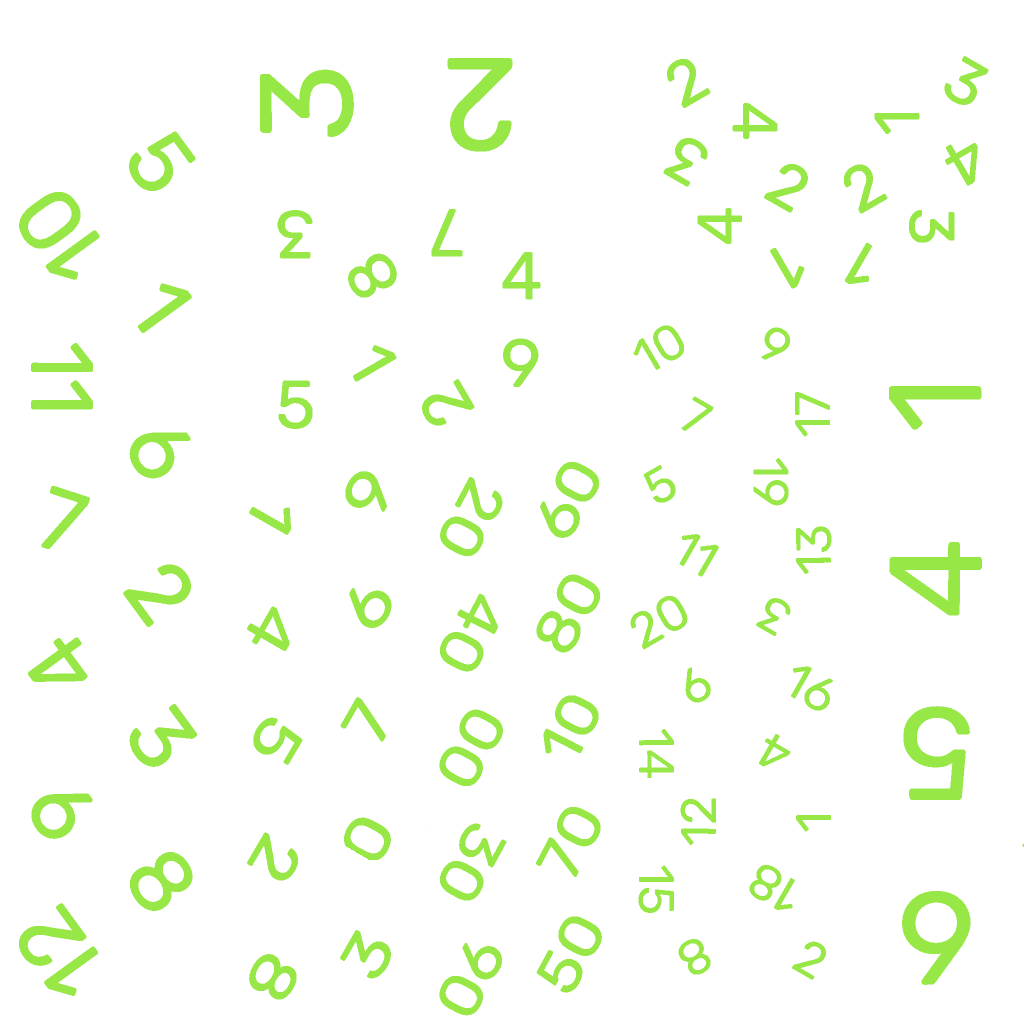
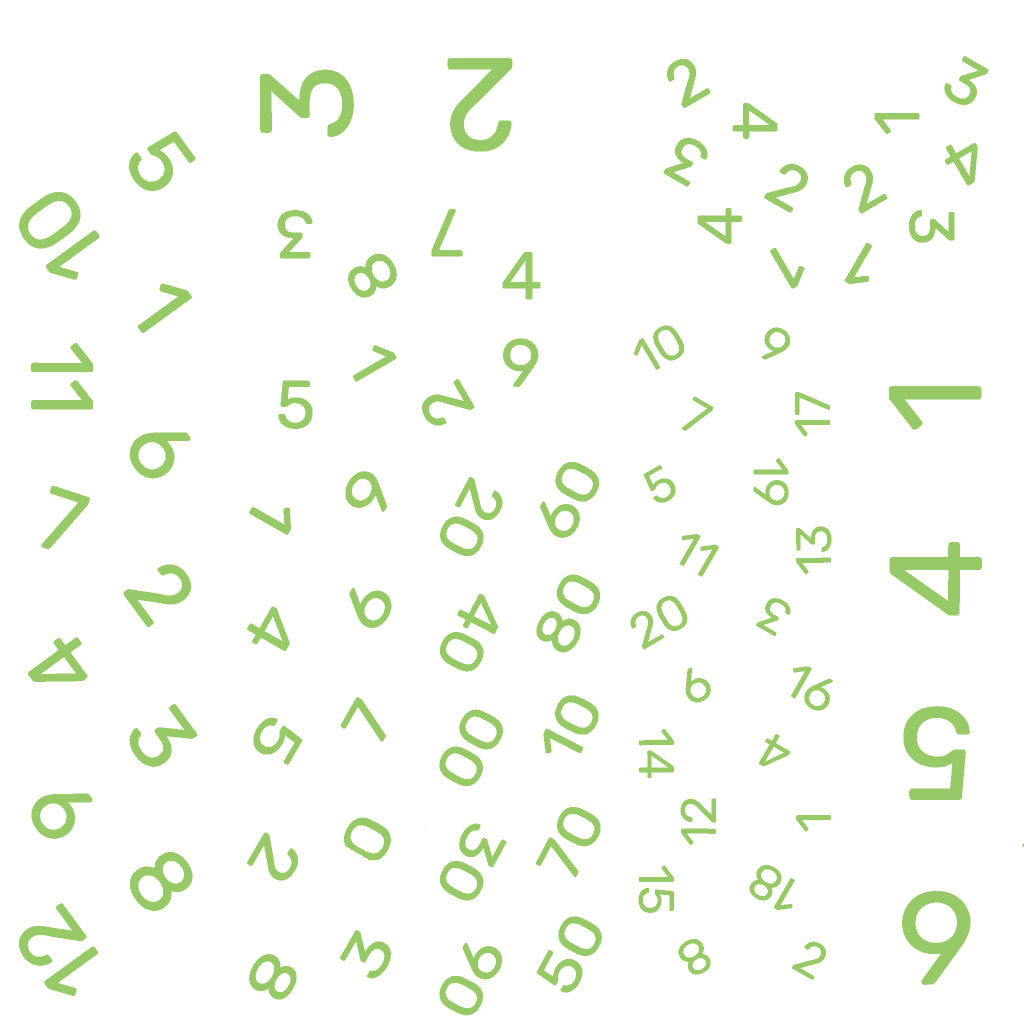
style(initiative): desaturate initiative dice colors by 30% and set popup background to #303030

diff --git a/client/src/views/SpaceVttView.vue b/client/src/views/SpaceVttView.vue
@@ -1654,8 +1654,8 @@ async function rollInitiative() {
 
   try {
     const results = await executeQueuedDiceRoll(diceBox, [
-      { sides: 10, theme: 'custom-init-player', themeColor: '#97e847', qty: 1 },
-      { sides: 10, theme: 'custom-init-opp', themeColor: '#09201b', qty: 1 }
+      { sides: 10, theme: 'custom-init-player', themeColor: '#97c966', qty: 1 },
+      { sides: 10, theme: 'custom-init-opp', themeColor: '#0f1a18', qty: 1 }
     ]);
     const initSummary = calculateInitiativeRoll(results);
     if (initSummary.valid) {
@@ -3678,7 +3678,7 @@ onBeforeUnmount(() => {
   top: 70px;
   left: 50%;
   transform: translateX(-50%);
-  background: rgba(11, 34, 46, 0.95);
+  background: #303030;
   border: 2px solid #b5eeff;
   box-shadow: 0 0 20px rgba(181, 238, 255, 0.45), 0 8px 32px rgba(0, 0, 0, 0.8);
   border-radius: 8px;
@@ -3731,22 +3731,22 @@ onBeforeUnmount(() => {
   box-shadow: inset 0 2px 4px rgba(255, 255, 255, 0.1), 0 4px 12px rgba(0, 0, 0, 0.4);
 }
 .init-player-die {
-  background: #97e847;
-  border: 2px solid #09201b;
-  color: #09201b;
-  box-shadow: 0 0 12px rgba(151, 232, 71, 0.4), inset 0 2px 4px rgba(255, 255, 255, 0.3);
+  background: #97c966;
+  border: 2px solid #0f1a18;
+  color: #0f1a18;
+  box-shadow: 0 0 12px rgba(151, 201, 102, 0.4), inset 0 2px 4px rgba(255, 255, 255, 0.3);
 }
 .init-player-die .init-val {
   text-shadow: 0 0 10px rgba(181, 238, 255, 0.7);
 }
 .init-opp-die {
-  background: #09201b;
-  border: 2px solid #97e847;
-  color: #97e847;
-  box-shadow: 0 0 12px rgba(151, 232, 71, 0.3), inset 0 2px 4px rgba(255, 255, 255, 0.1);
+  background: #0f1a18;
+  border: 2px solid #97c966;
+  color: #97c966;
+  box-shadow: 0 0 12px rgba(151, 201, 102, 0.3), inset 0 2px 4px rgba(255, 255, 255, 0.1);
 }
 .init-opp-die .init-val {
-  text-shadow: 0 0 10px rgba(151, 232, 71, 0.7);
+  text-shadow: 0 0 10px rgba(151, 201, 102, 0.7);
 }
 .init-label {
   font-size: 9px;
@@ -3775,22 +3775,22 @@ onBeforeUnmount(() => {
   font-size: 11px;
 }
 .init-pill-player {
-  background: #97e847;
-  color: #09201b;
-  border: 1px solid #09201b;
+  background: #97c966;
+  color: #0f1a18;
+  border: 1px solid #0f1a18;
   padding: 1px 6px;
   border-radius: 3px;
   font-weight: 700;
-  box-shadow: 0 0 6px rgba(151, 232, 71, 0.35);
+  box-shadow: 0 0 6px rgba(151, 201, 102, 0.35);
 }
 .init-pill-opp {
-  background: #09201b;
-  color: #97e847;
-  border: 1px solid #97e847;
+  background: #0f1a18;
+  color: #97c966;
+  border: 1px solid #97c966;
   padding: 1px 6px;
   border-radius: 3px;
   font-weight: 700;
-  box-shadow: 0 0 6px rgba(151, 232, 71, 0.25);
+  box-shadow: 0 0 6px rgba(151, 201, 102, 0.25);
 }
 
 /* Multi-Turn Flip & Burn */
@@ -5368,10 +5368,10 @@ onBeforeUnmount(() => {
 }
 
 .roll-log-item.initiative .roll-item-badge {
-  background: #09201b;
-  color: #97e847;
-  border-color: rgba(151, 232, 71, 0.5);
-  box-shadow: 0 0 6px rgba(151, 232, 71, 0.35);
+  background: #0f1a18;
+  color: #97c966;
+  border-color: rgba(151, 201, 102, 0.5);
+  box-shadow: 0 0 6px rgba(151, 201, 102, 0.35);
 }
 
 .roll-item-result {

diff --git a/client/src/views/RpgVttView.vue b/client/src/views/RpgVttView.vue
@@ -1033,8 +1033,8 @@ async function rollInitiative() {
 
   try {
     const results = await executeQueuedDiceRoll(diceBox, [
-      { sides: 10, theme: 'custom-init-player', themeColor: '#97e847', qty: 1 },
-      { sides: 10, theme: 'custom-init-opp', themeColor: '#09201b', qty: 1 }
+      { sides: 10, theme: 'custom-init-player', themeColor: '#97c966', qty: 1 },
+      { sides: 10, theme: 'custom-init-opp', themeColor: '#0f1a18', qty: 1 }
     ]);
     const initSummary = calculateInitiativeRoll(results);
     if (initSummary.valid) {
@@ -2551,7 +2551,7 @@ onBeforeUnmount(() => {
   top: 70px;
   left: 50%;
   transform: translateX(-50%);
-  background: rgba(11, 34, 46, 0.95);
+  background: #303030;
   border: 2px solid #b5eeff;
   box-shadow: 0 0 20px rgba(181, 238, 255, 0.45), 0 8px 32px rgba(0, 0, 0, 0.8);
   border-radius: 8px;
@@ -2604,22 +2604,22 @@ onBeforeUnmount(() => {
   box-shadow: inset 0 2px 4px rgba(255, 255, 255, 0.1), 0 4px 12px rgba(0, 0, 0, 0.4);
 }
 .init-player-die {
-  background: #97e847;
-  border: 2px solid #09201b;
-  color: #09201b;
-  box-shadow: 0 0 12px rgba(151, 232, 71, 0.4), inset 0 2px 4px rgba(255, 255, 255, 0.3);
+  background: #97c966;
+  border: 2px solid #0f1a18;
+  color: #0f1a18;
+  box-shadow: 0 0 12px rgba(151, 201, 102, 0.4), inset 0 2px 4px rgba(255, 255, 255, 0.3);
 }
 .init-player-die .init-val {
   text-shadow: 0 0 10px rgba(181, 238, 255, 0.7);
 }
 .init-opp-die {
-  background: #09201b;
-  border: 2px solid #97e847;
-  color: #97e847;
-  box-shadow: 0 0 12px rgba(151, 232, 71, 0.3), inset 0 2px 4px rgba(255, 255, 255, 0.1);
+  background: #0f1a18;
+  border: 2px solid #97c966;
+  color: #97c966;
+  box-shadow: 0 0 12px rgba(151, 201, 102, 0.3), inset 0 2px 4px rgba(255, 255, 255, 0.1);
 }
 .init-opp-die .init-val {
-  text-shadow: 0 0 10px rgba(151, 232, 71, 0.7);
+  text-shadow: 0 0 10px rgba(151, 201, 102, 0.7);
 }
 .init-label {
   font-size: 9px;
@@ -2648,22 +2648,22 @@ onBeforeUnmount(() => {
   font-size: 11px;
 }
 .init-pill-player {
-  background: #97e847;
-  color: #09201b;
-  border: 1px solid #09201b;
+  background: #97c966;
+  color: #0f1a18;
+  border: 1px solid #0f1a18;
   padding: 1px 6px;
   border-radius: 3px;
   font-weight: 700;
-  box-shadow: 0 0 6px rgba(151, 232, 71, 0.35);
+  box-shadow: 0 0 6px rgba(151, 201, 102, 0.35);
 }
 .init-pill-opp {
-  background: #09201b;
-  color: #97e847;
-  border: 1px solid #97e847;
+  background: #0f1a18;
+  color: #97c966;
+  border: 1px solid #97c966;
   padding: 1px 6px;
   border-radius: 3px;
   font-weight: 700;
-  box-shadow: 0 0 6px rgba(151, 232, 71, 0.25);
+  box-shadow: 0 0 6px rgba(151, 201, 102, 0.25);
 }
 
 .modal-error-banner {
@@ -4099,10 +4099,10 @@ onBeforeUnmount(() => {
 }
 
 .roll-log-item.initiative .roll-item-badge {
-  background: #09201b;
-  color: #97e847;
-  border-color: rgba(151, 232, 71, 0.5);
-  box-shadow: 0 0 6px rgba(151, 232, 71, 0.35);
+  background: #0f1a18;
+  color: #97c966;
+  border-color: rgba(151, 201, 102, 0.5);
+  box-shadow: 0 0 6px rgba(151, 201, 102, 0.35);
 }
 
 .roll-item-result {

diff --git a/client/src/utils/diceUtils.js b/client/src/utils/diceUtils.js
@@ -77,8 +77,8 @@ export function calculatePercentileRoll(results) {
 
 /**
  * Processes settled die objects from @3d-dice/dice-box for combat initiative.
- * Die #1 (Players): theme 'custom-init-player', themeColor '#97e847' (legacy: '#97f23d', '#70e6b3', '#12415a', '#0b222e').
- * Die #2 (Opposition): theme 'custom-init-opp', themeColor '#09201b' (legacy: '#07221c', '#124a3d', '#1d705d', '#6f0e39', '#400a22').
+ * Die #1 (Players): theme 'custom-init-player', themeColor '#97c966' (legacy: '#97e847', '#97f23d', '#70e6b3', '#12415a', '#0b222e').
+ * Die #2 (Opposition): theme 'custom-init-opp', themeColor '#0f1a18' (legacy: '#09201b', '#07221c', '#124a3d', '#1d705d', '#6f0e39', '#400a22').
  * On a d10 face showing 0 (raw value 0 or 10), the roll value is 10 (range 1-10).
  *
  * @param {Array} results
@@ -94,9 +94,10 @@ export function calculateInitiativeRoll(results) {
     return { playerRoll: 0, oppRoll: 0, winner: 'tie', valid: false };
   }
 
-  // Find player die: theme 'custom-init-player', themeColor '#97e847' / '#97f23d' / '#70e6b3' / '#12415a' / '#0b222e' / '#17304a', or groupId 0
+  // Find player die: theme 'custom-init-player', themeColor '#97c966' / '#97e847' / '#97f23d' / '#70e6b3' / '#12415a' / '#0b222e' / '#17304a', or groupId 0
   const playerDie = flat.find(d =>
     d?.theme === 'custom-init-player' ||
+    d?.themeColor?.toLowerCase() === '#97c966' ||
     d?.themeColor?.toLowerCase() === '#97e847' ||
     d?.themeColor?.toLowerCase() === '#97f23d' ||
     d?.themeColor?.toLowerCase() === '#70e6b3' ||
@@ -106,10 +107,11 @@ export function calculateInitiativeRoll(results) {
     d?.groupId === 0
   ) || flat[0];
 
-  // Find opposition die: theme 'custom-init-opp', themeColor '#09201b' / '#07221c' / '#124a3d' / '#1d705d' / '#6f0e39' / '#400a22', or groupId 1
+  // Find opposition die: theme 'custom-init-opp', themeColor '#0f1a18' / '#09201b' / '#07221c' / '#124a3d' / '#1d705d' / '#6f0e39' / '#400a22', or groupId 1
   const oppDie = flat.find(d =>
     d !== playerDie && (
       d?.theme === 'custom-init-opp' ||
+      d?.themeColor?.toLowerCase() === '#0f1a18' ||
       d?.themeColor?.toLowerCase() === '#09201b' ||
       d?.themeColor?.toLowerCase() === '#07221c' ||
       d?.themeColor?.toLowerCase() === '#124a3d' ||

diff --git a/client/test/InitiativeHud.test.js b/client/test/InitiativeHud.test.js
@@ -40,10 +40,11 @@ describe('Initiative Dice & HUD System', () => {
     });
 
     it('defines CSS colors matching user specifications', () => {
-      // Player: body #97e847, border/text #09201b
-      expect(spaceContent).toMatch(/#97e847/);
-      expect(spaceContent).toMatch(/#09201b/);
-      // Opposition: body #09201b, numbers #97e847
+      // Player: body #97c966, border/text #0f1a18
+      expect(spaceContent).toMatch(/#97c966/);
+      expect(spaceContent).toMatch(/#0f1a18/);
+      expect(spaceContent).toMatch(/background:\s*#303030/);
+      // Opposition: body #0f1a18, numbers #97c966
     });
 
     it('defines glow effect box-shadow and text-shadow on initiative HUD banner', () => {
@@ -83,10 +84,11 @@ describe('Initiative Dice & HUD System', () => {
     });
 
     it('defines CSS colors matching user specifications', () => {
-      // Player: body #97e847, border/text #09201b
-      expect(rpgContent).toMatch(/#97e847/);
-      expect(rpgContent).toMatch(/#09201b/);
-      // Opposition: body #09201b, numbers #97e847
+      // Player: body #97c966, border/text #0f1a18
+      expect(rpgContent).toMatch(/#97c966/);
+      expect(rpgContent).toMatch(/#0f1a18/);
+      expect(rpgContent).toMatch(/background:\s*#303030/);
+      // Opposition: body #0f1a18, numbers #97c966
     });
 
     it('defines glow effect box-shadow and text-shadow on initiative HUD banner', () => {
@@ -112,6 +114,16 @@ describe('Initiative Dice & HUD System', () => {
   });
 
   describe('Initiative Roll Winner Determination', () => {
+    it('correctly parses dice rolls with 30% desaturated inverted theme colors (#97c966 player, #0f1a18 opp)', () => {
+      const res = calculateInitiativeRoll([
+        { theme: 'custom-init-player', themeColor: '#97c966', value: 8 },
+        { theme: 'custom-init-opp', themeColor: '#0f1a18', value: 4 }
+      ]);
+      expect(res.playerRoll).toBe(8);
+      expect(res.oppRoll).toBe(4);
+      expect(res.valid).toBe(true);
+    });
+
     it('correctly parses dice rolls with desaturated inverted theme colors (#97e847 player, #09201b opp)', () => {
       const res = calculateInitiativeRoll([
         { theme: 'custom-init-player', themeColor: '#97e847', value: 8 },

diff --git a/server/build_initiative_themes.js b/server/build_initiative_themes.js
@@ -127,8 +127,8 @@ async function main() {
 
   const filesToCopy = ['default.json', 'package.json', 'specular.jpg', 'theme.config.json'];
 
-  // Player theme numbers: #09201b (desaturated dark spruce on #97e847 die)
-  const playerDiffuse = await makeDiffuse(0x09, 0x20, 0x1b);
+  // Player theme numbers: #0f1a18 (desaturated dark spruce on #97c966 die)
+  const playerDiffuse = await makeDiffuse(0x0f, 0x1a, 0x18);
   const playerDir = path.join(root, 'public/assets/dice-box/themes/custom-init-player');
   if (!fs.existsSync(playerDir)) fs.mkdirSync(playerDir, { recursive: true });
   for (const f of filesToCopy) {
@@ -137,10 +137,10 @@ async function main() {
   fs.writeFileSync(path.join(playerDir, 'diffuse-light.png'), playerDiffuse);
   fs.writeFileSync(path.join(playerDir, 'diffuse-dark.png'), playerDiffuse);
   fs.writeFileSync(path.join(playerDir, 'normal.png'), normBuffer);
-  console.log('Generated custom-init-player theme (#09201b)');
+  console.log('Generated custom-init-player theme (#0f1a18)');
 
-  // Opposition theme numbers: #97e847 (desaturated lime on #09201b die)
-  const oppDiffuse = await makeDiffuse(0x97, 0xe8, 0x47);
+  // Opposition theme numbers: #97c966 (desaturated lime on #0f1a18 die)
+  const oppDiffuse = await makeDiffuse(0x97, 0xc9, 0x66);
   const oppDir = path.join(root, 'public/assets/dice-box/themes/custom-init-opp');
   if (!fs.existsSync(oppDir)) fs.mkdirSync(oppDir, { recursive: true });
   for (const f of filesToCopy) {
@@ -149,7 +149,7 @@ async function main() {
   fs.writeFileSync(path.join(oppDir, 'diffuse-light.png'), oppDiffuse);
   fs.writeFileSync(path.join(oppDir, 'diffuse-dark.png'), oppDiffuse);
   fs.writeFileSync(path.join(oppDir, 'normal.png'), normBuffer);
-  console.log('Generated custom-init-opp theme (#97e847)');
+  console.log('Generated custom-init-opp theme (#97c966)');
 }
 
 main().catch(console.error);

diff --git a/client/test/diceUtils.test.js b/client/test/diceUtils.test.js
@@ -228,10 +228,10 @@ describe('calculateInitiativeRoll', () => {
   });
 
   it('identifies dice by themeColor when theme name is not present', () => {
-    // Reverse order input with new desaturated green initiative colors (#97e847 and #09201b)
+    // Reverse order input with new desaturated green initiative colors (#97c966 and #0f1a18)
     const raw = [
-      { value: 6, themeColor: '#09201b' },
-      { value: 9, themeColor: '#97e847' },
+      { value: 6, themeColor: '#0f1a18' },
+      { value: 9, themeColor: '#97c966' },
     ];
     const result = calculateInitiativeRoll(raw);
     expect(result).toEqual({
@@ -243,10 +243,21 @@ describe('calculateInitiativeRoll', () => {
 
     // Also supports legacy colors
     const legacyRaw = [
+      { value: 6, themeColor: '#09201b' },
+      { value: 9, themeColor: '#97e847' },
+    ];
+    expect(calculateInitiativeRoll(legacyRaw)).toEqual({
+      playerRoll: 9,
+      oppRoll: 6,
+      winner: 'players',
+      valid: true,
+    });
+
+    const olderLegacyRaw = [
       { value: 6, themeColor: '#400a22' },
       { value: 9, themeColor: '#0b222e' },
     ];
-    expect(calculateInitiativeRoll(legacyRaw)).toEqual({
+    expect(calculateInitiativeRoll(olderLegacyRaw)).toEqual({
       playerRoll: 9,
       oppRoll: 6,
       winner: 'players',

diff --git a/client/test/safeDiceRoller.test.js b/client/test/safeDiceRoller.test.js
@@ -38,8 +38,8 @@ describe('safeDiceRoller with executeQueuedDiceRoll', () => {
 
     it('generates player and opposition dice for initiative notation', () => {
       const notation = [
-        { sides: 10, theme: 'custom-init-player', themeColor: '#97e847', qty: 1 },
-        { sides: 10, theme: 'custom-init-opp', themeColor: '#09201b', qty: 1 }
+        { sides: 10, theme: 'custom-init-player', themeColor: '#97c966', qty: 1 },
+        { sides: 10, theme: 'custom-init-opp', themeColor: '#0f1a18', qty: 1 }
       ];
       const results = generateSyntheticRoll(notation);
       expect(results.length).toBe(2);
